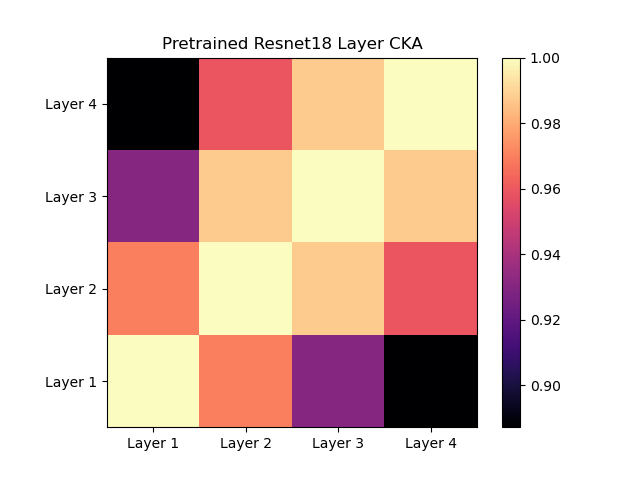
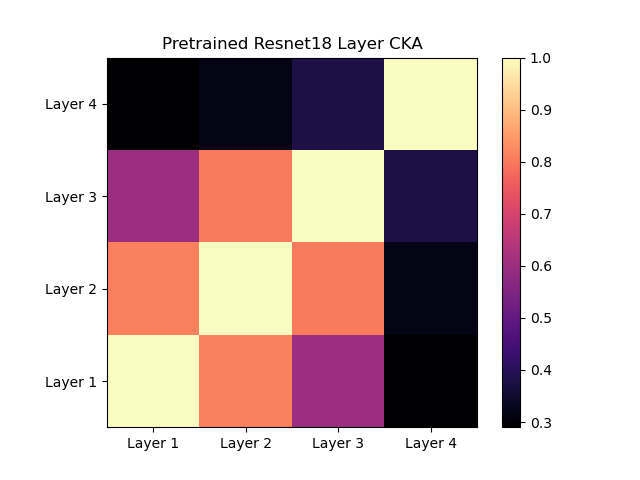
use pretrained in example

diff --git a/example.py b/example.py
@@ -46,7 +46,7 @@ def main():
             normalize,
         ]))
 
-    model = resnet18()
+    model = resnet18(pretrained=True)
     model.cuda()
     model.eval()
     cka_logger = CKA_Minibatch_Grid(num_features, num_features)
